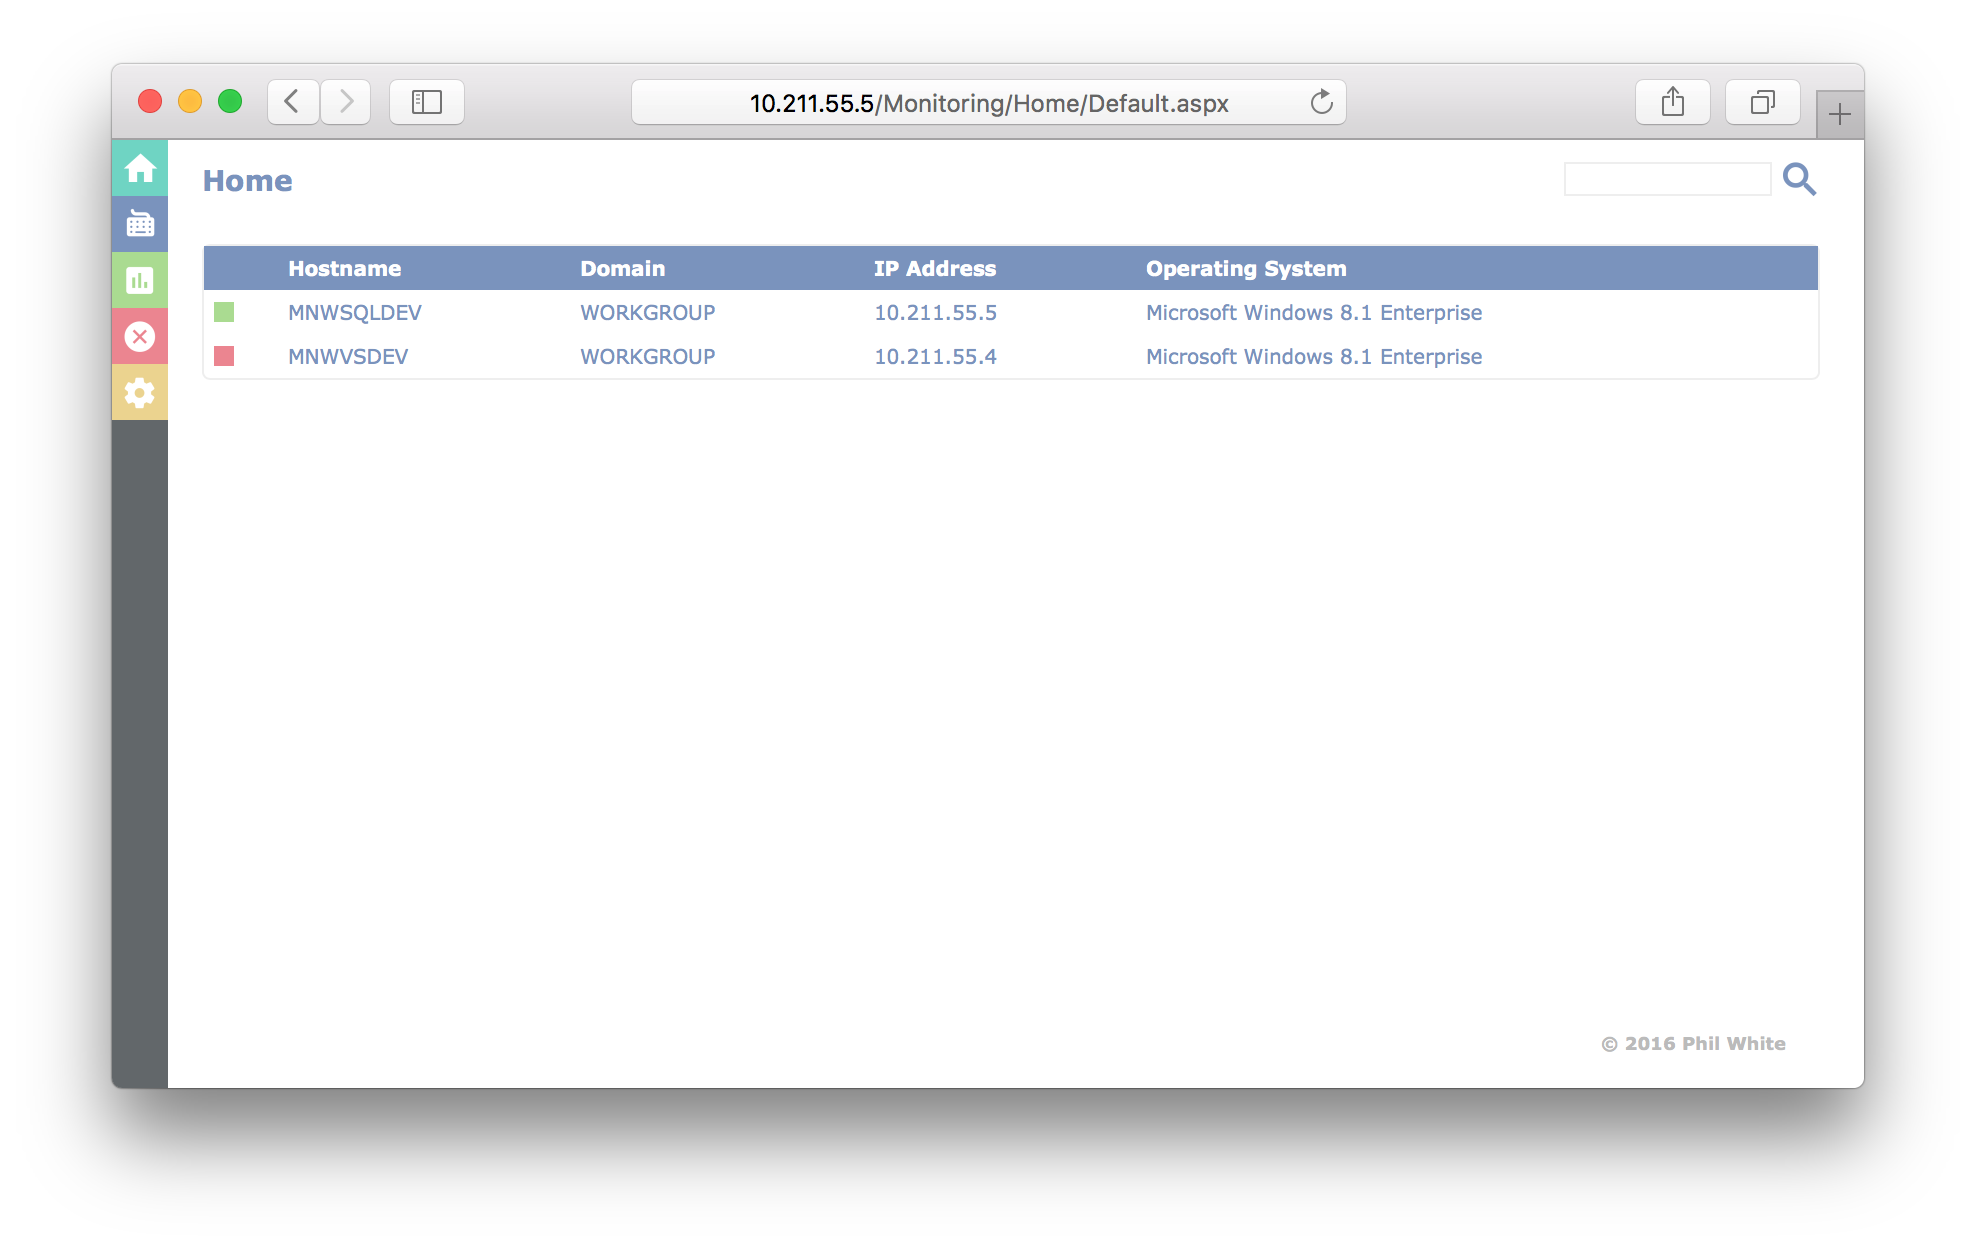
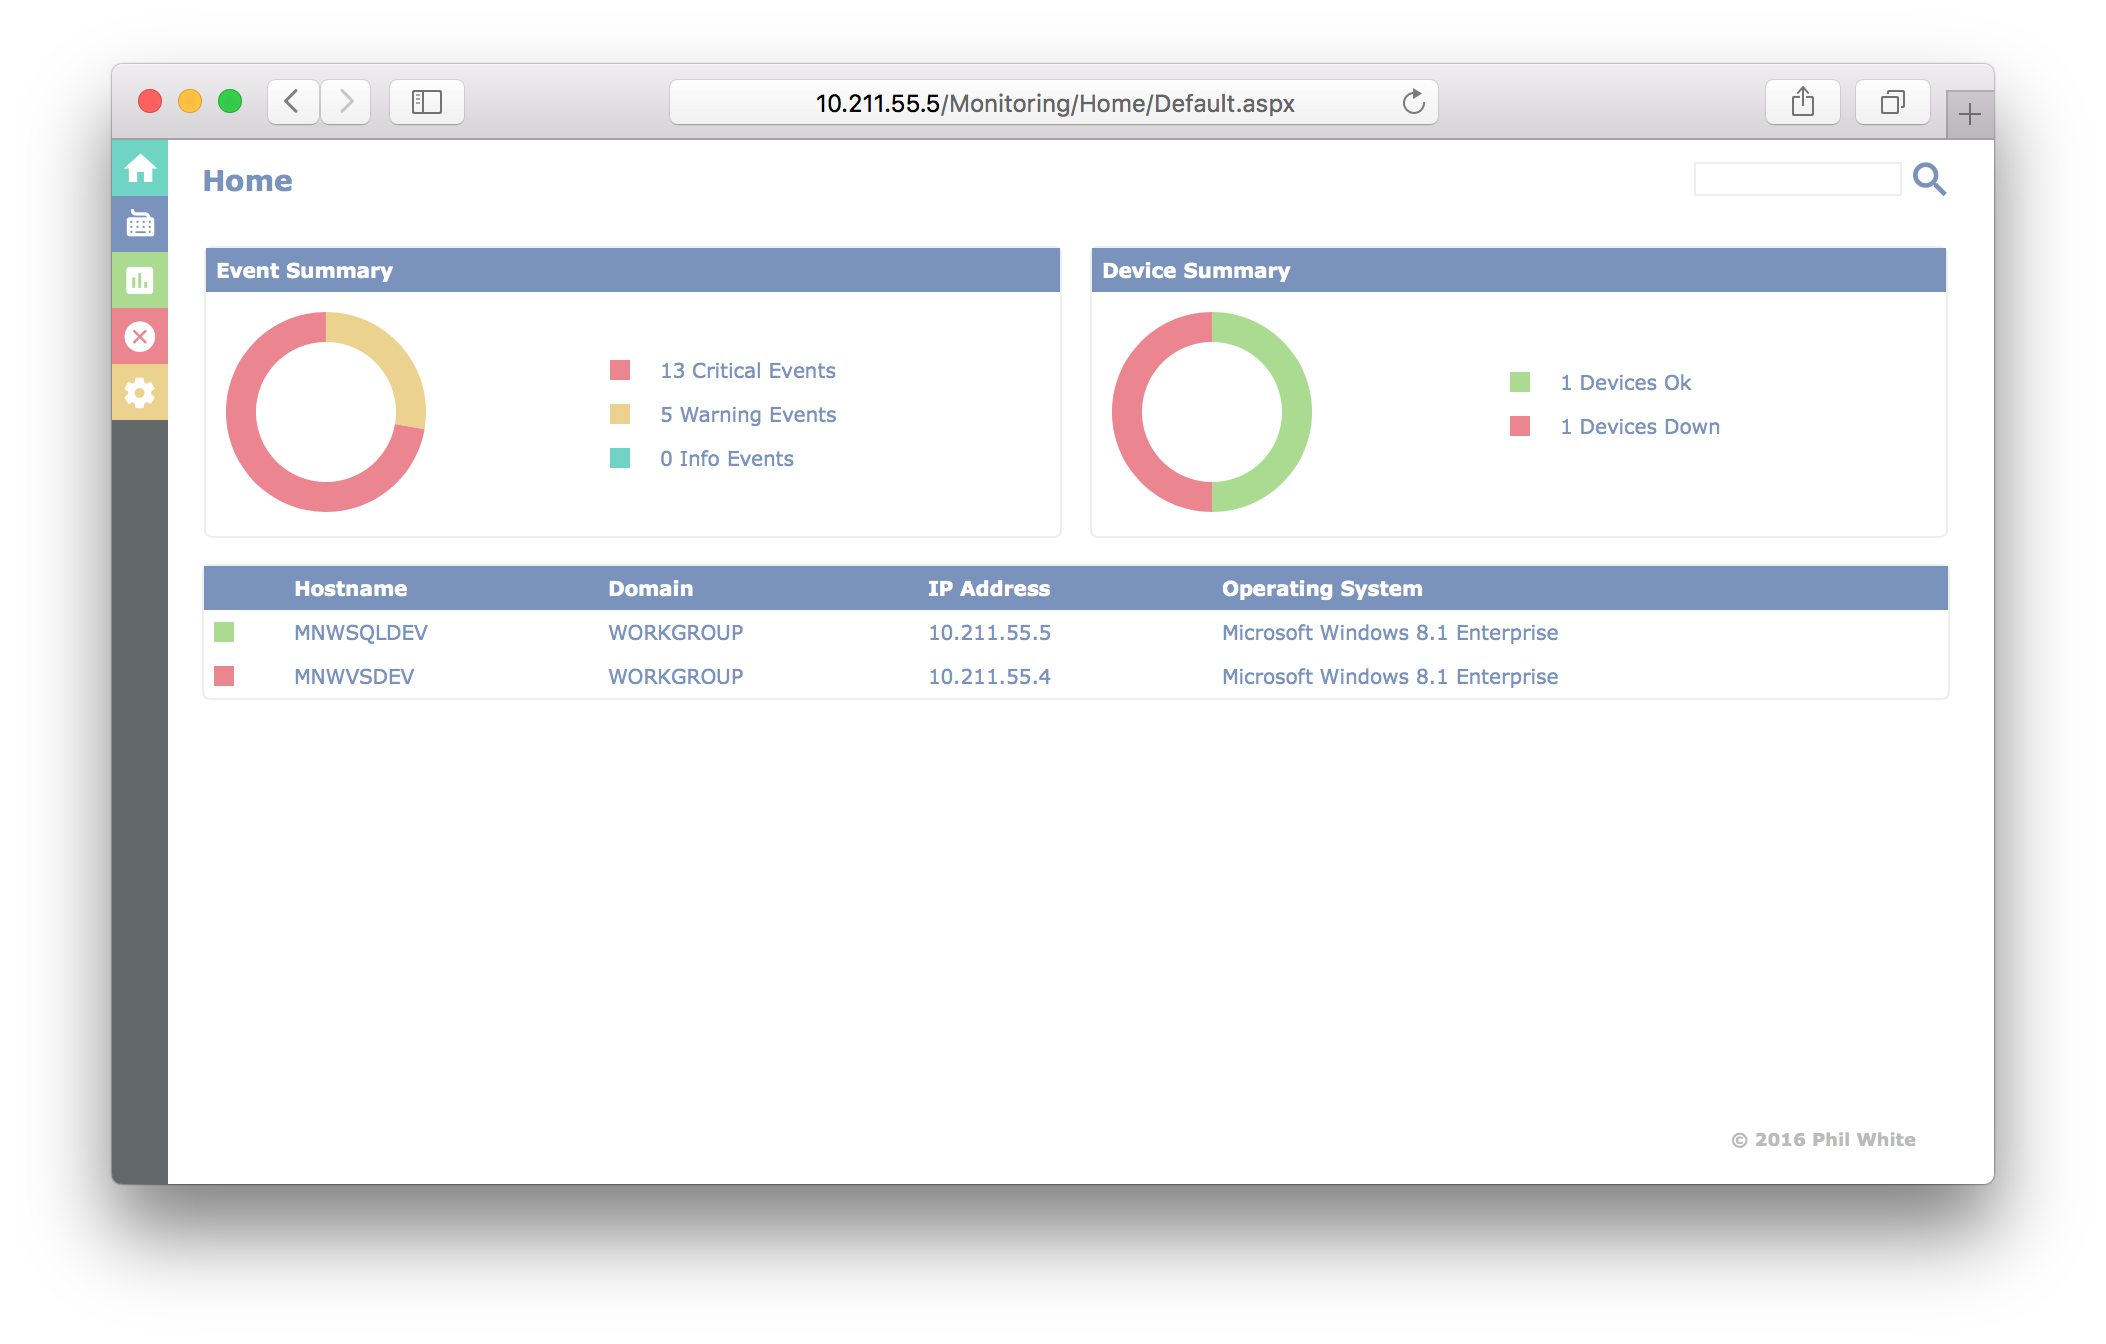
Monitoring Server 2016-01-09
Monitoring Server 2016-01-09

Changed region(s): [[0.0309, 0.0625, 0.957, 0.9062]]

diff --git a/Monitoring/App_Themes/Monitoring/Monitoring.css b/Monitoring/App_Themes/Monitoring/Monitoring.css
@@ -15,7 +15,7 @@ a:link, a:active, a:hover, a:visited {color:#7992BF;text-decoration:none}
 
 .EventStatusCritical {height:10px;width:10px;background:#ED848F;}
 .EventStatusWarning {height:10px;width:10px;background:#ECD48B;}
-.EventStatusInfo {height:10px;width:10px;background:#7992BF;}
+.EventStatusInfo {height:10px;width:10px;background:#6BD5C3;}
 .EventStatusOK {height:10px;width:10px;background:#A9DC8E;}
 
 
@@ -59,3 +59,10 @@ a.NavLinkOptions:hover{width:28px;height:28px;display:block;background-size:28px
 .SearchTextBox{vertical-align:top;margin-top:1px;border-style:solid;border-width:1px;border-color:#eeeeee;width:100px;color:#7992BF;}
 .Main{position:absolute;left:28px;background:#ffffff;width:calc(100% - 67px);padding-left:17px;padding-right:17px;font:10px Verdana, Arial, Helvetica, sans-serif;color:#7992BF;}
 .Footer{position:fixed;left:28px; bottom:0px; width:calc(100% - 67px); height:28px; background:#FFFFFF;font:9px Verdana, Arial, Helvetica, sans-serif;font-weight:bold;color:#bbbbbb;text-align:right;}
+
+
+
+
+
+
+

diff --git a/README.md b/README.md
@@ -1,4 +1,4 @@
-# MonitoringServer 0.4.4b
+# MonitoringServer 0.4.5b
 
 ##About
 
@@ -25,6 +25,11 @@ For setup and configuration please see the new Wiki
 
 
 ##Change Log
+
+
+###Changes for Version 0.4.5b (2016/01/09):
+
+1.  Updated Home page to include new summary donut graphs for device and events.
 
 
 ###Changes for Version 0.4.4b (2016/01/08):
